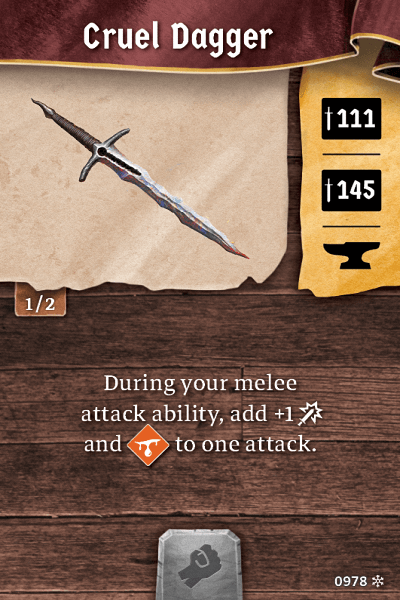
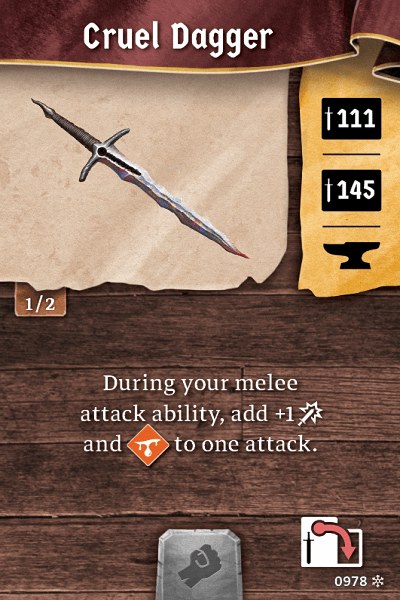
Implement FH DA IT

diff --git a/index.html b/index.html
@@ -8561,6 +8561,14 @@
 									<tr><td>Item 49 | Item 049 | Item #49 | Item #049 | Cruel Dagger         </td></tr>
 									<tr><td>Item 50 | Item 050 | Item #50 | Item #050 | Shield Of Reciprocity</td></tr>
 								</table>
+								<table class="table-padded">
+									<tr><td>&nbsp</td></tr>
+									<tr><td>Deprecated Assets: Oldest Version ==> Newest Version; Single Card, Asset No Longer Exists</td></tr>
+								</table>
+								<table class="table-padded">
+									<tr><td>&nbsp</td></tr>
+									<tr><td>Item 49 Deprecated | Item 049 Deprecated | Item #49 Deprecated | Item #049 Deprecated | Cruel Dagger Deprecated</td></tr>
+								</table>
 							</div>
 							<h2><i class="fa fa-plus"></i> 051 - 065 : Random Blueprint </h2>
 							<div class="textzone">
@@ -8906,6 +8914,14 @@
 							<tr><td>Crude Hide Armor      </td><td>Glancing Potion        </td><td>Moon Earring           </td><td>Soothing Scepter     </td><td>Wing Clippers      </td></tr>
 							<tr><td>Crude Shield          </td><td>Glorious Bracelet      </td><td>Mountain's Heart       </td><td>Soul Urn             </td><td>Winged Shoes       </td></tr>
 							<tr><td>Crude Spear           </td><td>Hammer Potion          </td><td>Multi-Colored Cloak    </td><td>Spear Of Justice     </td></tr>
+						</table>
+						<table class="table-padded">
+							<tr><td>&nbsp</td></tr>
+							<tr><td>Deprecated Assets: Oldest Version ==> Newest Version; Single Card, Asset No Longer Exists</td></tr>
+						</table>
+						<table class="table-padded">
+							<tr><td>&nbsp</td></tr>
+							<tr><td>Cruel Dagger Deprecated</td></tr>
 						</table>
 					</div>
 
@@ -11766,6 +11782,14 @@
 									<tr><td>Item 49 | Item 049 | Item #49 | Item #049 | Cruel Dagger         </td></tr>
 									<tr><td>Item 50 | Item 050 | Item #50 | Item #050 | Shield Of Reciprocity</td></tr>
 								</table>
+								<table class="table-padded">
+									<tr><td>&nbsp</td></tr>
+									<tr><td>Deprecated Assets: Oldest Version ==> Newest Version; Single Card, Asset No Longer Exists</td></tr>
+								</table>
+								<table class="table-padded">
+									<tr><td>&nbsp</td></tr>
+									<tr><td>Item 49 Deprecated | Item 049 Deprecated | Item #49 Deprecated | Item #049 Deprecated | Cruel Dagger Deprecated</td></tr>
+								</table>
 							</div>
 							<h2><i class="fa fa-plus"></i> 051 - 065 : Random Blueprint </h2>
 							<div class="textzone">
@@ -12111,6 +12135,14 @@
 							<tr><td>Crude Hide Armor      </td><td>Glancing Potion        </td><td>Moon Earring           </td><td>Soothing Scepter     </td><td>Wing Clippers      </td></tr>
 							<tr><td>Crude Shield          </td><td>Glorious Bracelet      </td><td>Mountain's Heart       </td><td>Soul Urn             </td><td>Winged Shoes       </td></tr>
 							<tr><td>Crude Spear           </td><td>Hammer Potion          </td><td>Multi-Colored Cloak    </td><td>Spear Of Justice     </td></tr>
+						</table>
+						<table class="table-padded">
+							<tr><td>&nbsp</td></tr>
+							<tr><td>Deprecated Assets: Oldest Version ==> Newest Version; Single Card, Asset No Longer Exists</td></tr>
+						</table>
+						<table class="table-padded">
+							<tr><td>&nbsp</td></tr>
+							<tr><td>Cruel Dagger Deprecated</td></tr>
 						</table>
 					</div>
 

diff --git a/data/deprecated-assets.js b/data/deprecated-assets.js
@@ -4303,5 +4303,75 @@
     "expansion": "Frosthaven",
     "image": "events/frosthaven/road/fh-wre-47-b.png",
     "xws": "fhwre47bdeprecated"
+  },
+  {
+    "name": "item 49 deprecated",
+    "points": 615,
+    "expansion": "Frosthaven",
+    "image": "deprecated-assets/frosthaven/items/046-050/fh-049-cruel-dagger-v1.png",
+    "xws": "crueldaggerdeprecated"
+  },
+  {
+    "name": "item 49 deprecated",
+    "points": 616,
+    "expansion": "Frosthaven",
+    "image": "items/frosthaven/046-050/fh-cruel-dagger.png",
+    "xws": "crueldaggerdeprecated"
+  }
+  {
+    "name": "item 049 deprecated",
+    "points": 617,
+    "expansion": "Frosthaven",
+    "image": "deprecated-assets/frosthaven/items/046-050/fh-049-cruel-dagger-v1.png",
+    "xws": "crueldaggerdeprecated"
+  },
+  {
+    "name": "item 049 deprecated",
+    "points": 618,
+    "expansion": "Frosthaven",
+    "image": "items/frosthaven/046-050/fh-cruel-dagger.png",
+    "xws": "crueldaggerdeprecated"
+  }
+  {
+    "name": "item #49 deprecated",
+    "points": 619,
+    "expansion": "Frosthaven",
+    "image": "deprecated-assets/frosthaven/items/046-050/fh-049-cruel-dagger-v1.png",
+    "xws": "crueldaggerdeprecated"
+  },
+  {
+    "name": "item #49 deprecated",
+    "points": 620,
+    "expansion": "Frosthaven",
+    "image": "items/frosthaven/046-050/fh-cruel-dagger.png",
+    "xws": "crueldaggerdeprecated"
+  }
+  {
+    "name": "item #049 deprecated",
+    "points": 621,
+    "expansion": "Frosthaven",
+    "image": "deprecated-assets/frosthaven/items/046-050/fh-049-cruel-dagger-v1.png",
+    "xws": "crueldaggerdeprecated"
+  },
+  {
+    "name": "item #049 deprecated",
+    "points": 622,
+    "expansion": "Frosthaven",
+    "image": "items/frosthaven/046-050/fh-cruel-dagger.png",
+    "xws": "crueldaggerdeprecated"
+  }
+  {
+    "name": "cruel dagger deprecated",
+    "points": 623,
+    "expansion": "Frosthaven",
+    "image": "deprecated-assets/frosthaven/items/046-050/fh-049-cruel-dagger-v1.png",
+    "xws": "crueldaggerdeprecated"
+  },
+  {
+    "name": "cruel dagger deprecated",
+    "points": 624,
+    "expansion": "Frosthaven",
+    "image": "items/frosthaven/046-050/fh-cruel-dagger.png",
+    "xws": "crueldaggerdeprecated"
   }
 ]
